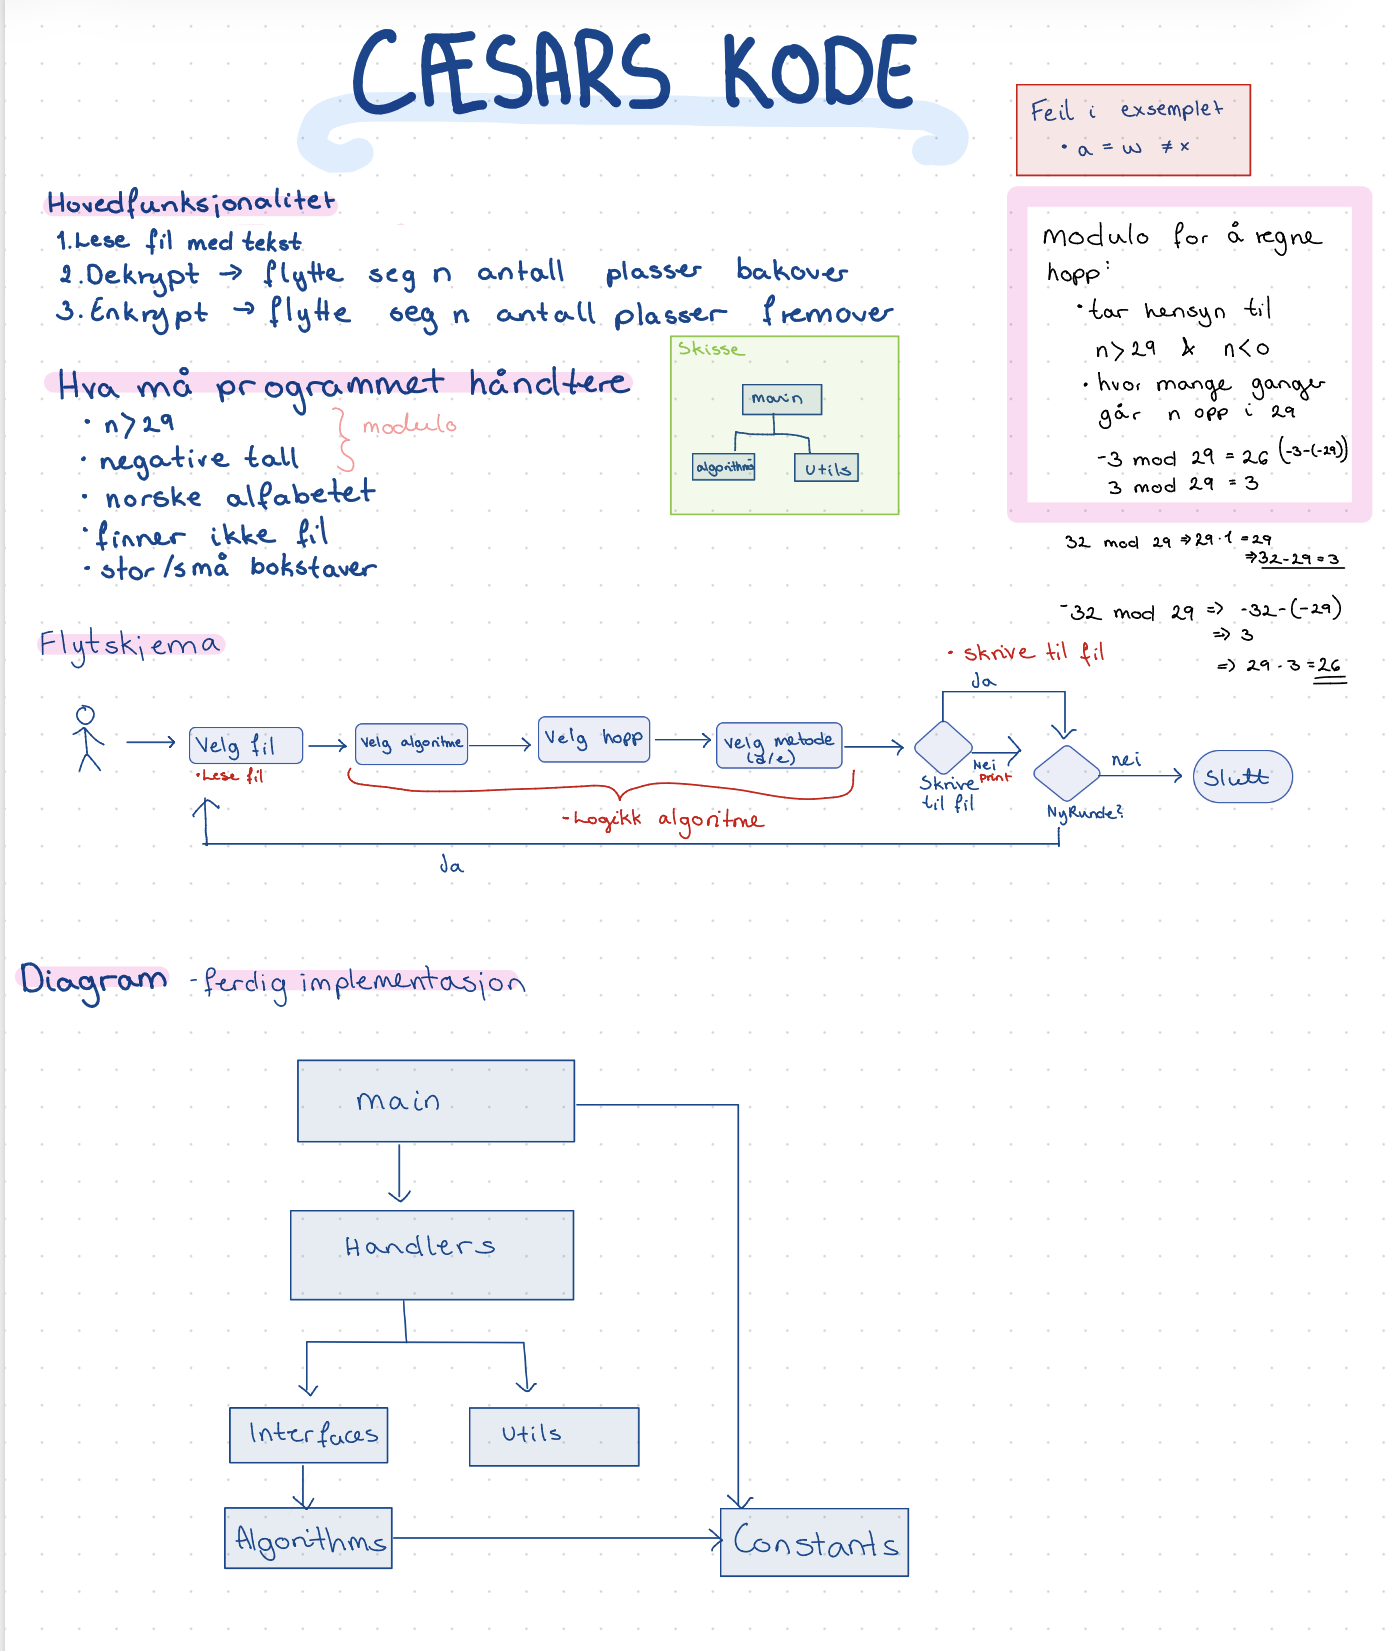
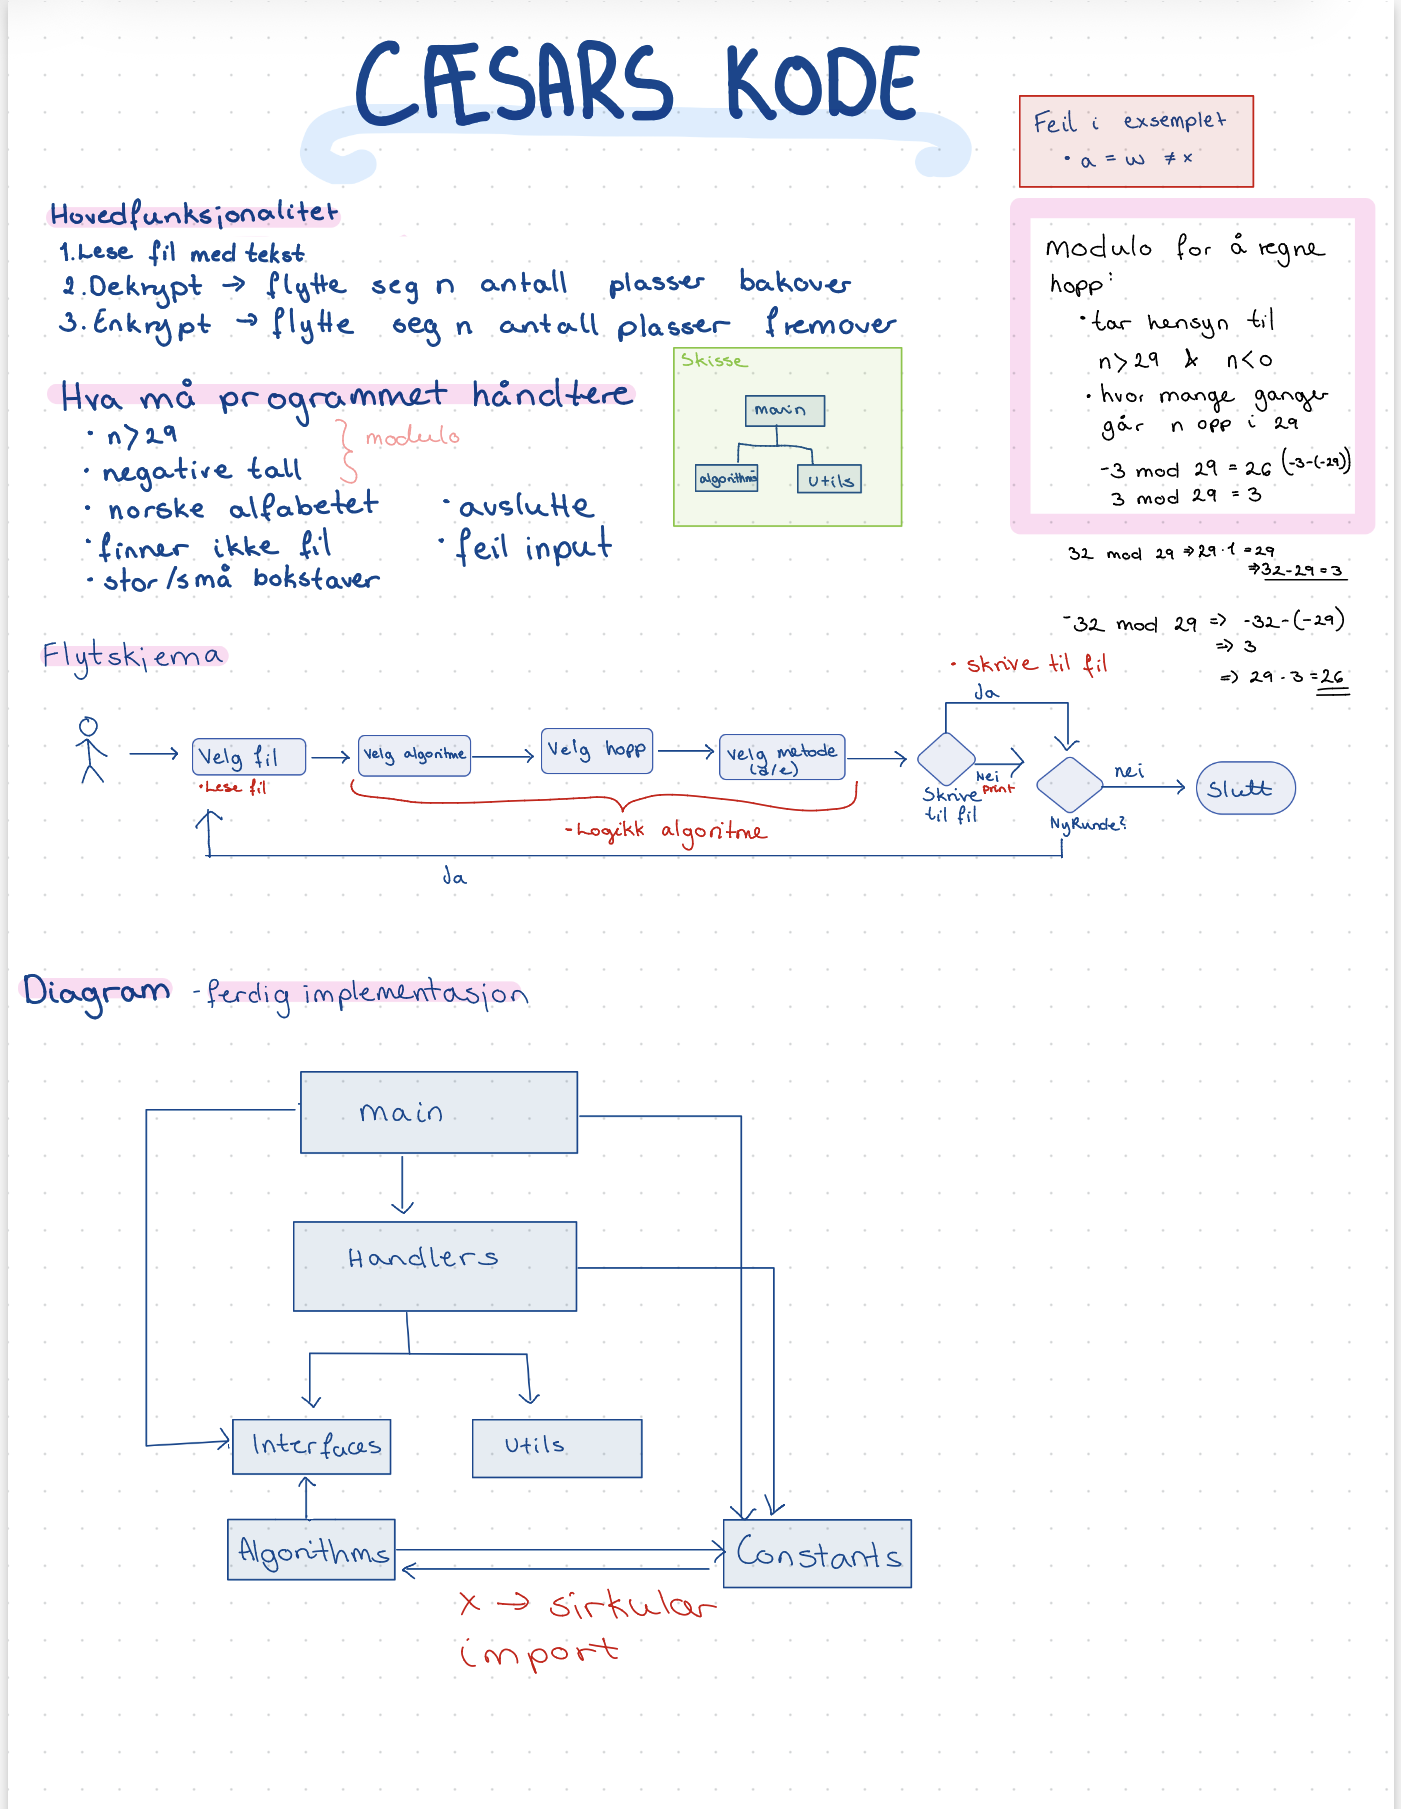
fix: Sirkulær import, bilder i readme, return i les fil og valueerror

diff --git a/handlers/user_input_handler.py b/handlers/user_input_handler.py
@@ -1,8 +1,9 @@
-from constants import ALGORITHMS
+from registry import ALGORITHMS
 from utils.read_file import read_file
 from utils.write_file import write_file
 import sys
 from typing import Tuple
+from interfaces.algorithms import Encrypting
 
 
 def terminate(user_input):
@@ -23,11 +24,11 @@ class UserInputHandler:
             file_path = input("Skriv inn filnavnet til filen du vil kryptere/dekryptere: ")
             terminate(file_path)
             text = read_file(file_path)
-            if text:
+            if text is not None: 
                 return text, file_path
             print("Ugyldig filsti. Vennligst prøv igjen.")
 
-    def get_algorithm(self) -> type:
+    def get_algorithm(self) -> type[Encrypting]:
         """
         Henter den riktige krypterings algoritmen fra en liste over tilgjengelige algoritmer.
         Returns:

diff --git a/utils/read_file.py b/utils/read_file.py
@@ -1,4 +1,4 @@
-def read_file(file_path: str ) -> str:
+def read_file(file_path: str ) -> str | None:
     """
     Leser innholdet i en fil
     Args:
@@ -11,8 +11,10 @@ def read_file(file_path: str ) -> str:
             return file.read()
     except FileNotFoundError:
         print (f"Fant ikke filen: {file_path}. Sjekk filbanen")
+        return None
     except Exception as e:
         print(f"Det oppstod en feil ved lesing {e}")
+        return None
 
 
 #For testing

diff --git a/main.py b/main.py
@@ -28,8 +28,10 @@ def main():
         algorithm = algorithm_class(shift=shift)
         if metode == "d":
             result = algorithm.decrypt(text)
-        else:
+        elif metode == "e":
             result = algorithm.encrypt(text)
+        else:
+            raise ValueError("Ugyldig metode. Velg 'd' for dekryptering eller 'e' for kryptering.")
 
         #5. Printer resultatet i terminalen
         print("-"*20)

diff --git a/constants.py b/constants.py
@@ -1,6 +1,1 @@
 ALPHABET = ["A", "B", "C", "D", "E", "F", "G", "H", "I", "J", "K", "L", "M", "N", "O", "P", "Q", "R", "S", "T", "U", "V", "W", "X", "Y", "Z", "Æ", "Ø", "Å"]
-
-from algorithms.cæsar import CæsarAlgorithm
-ALGORITHMS = {
-    "Cæsar": CæsarAlgorithm,
-}

diff --git a/algorithms/cæsar.py b/algorithms/cæsar.py
@@ -8,7 +8,6 @@ class CæsarAlgorithm(Encrypting):
         Arg:
             shift (int): Antall plasser bokstavene skal flyttes i alfabetet
         """
-        self.alfabeth = ALPHABET 
         self.shift = int(shift)
     
         

diff --git a/registry.py b/registry.py
@@ -1,0 +1,4 @@
+from algorithms.cæsar import CæsarAlgorithm
+ALGORITHMS = {
+    "Cæsar": CæsarAlgorithm,
+}

diff --git a/README.md b/README.md
@@ -24,3 +24,4 @@ Kan enkelt legge til nye algoritmer i algorithms mappen, som arver klasser fra a
 
 ## Skisser fra arbeidsprosessen
 ![Alt-tekst](ReadmeBilde.png)
+![Alt-tekst](ReadmeBilde1.png)
